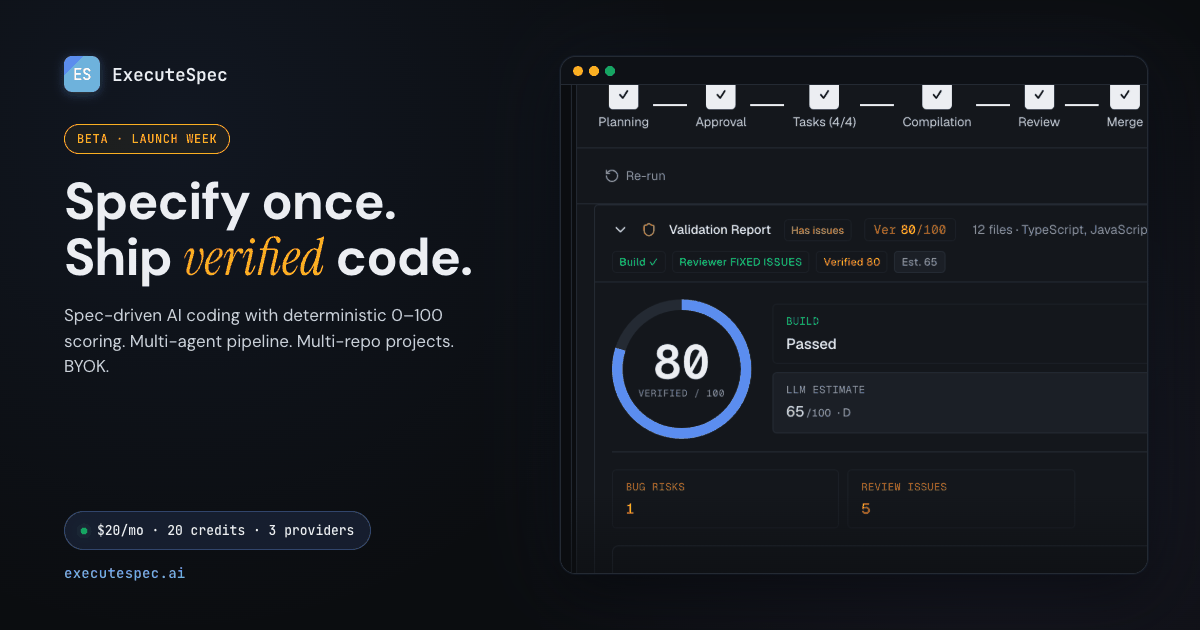
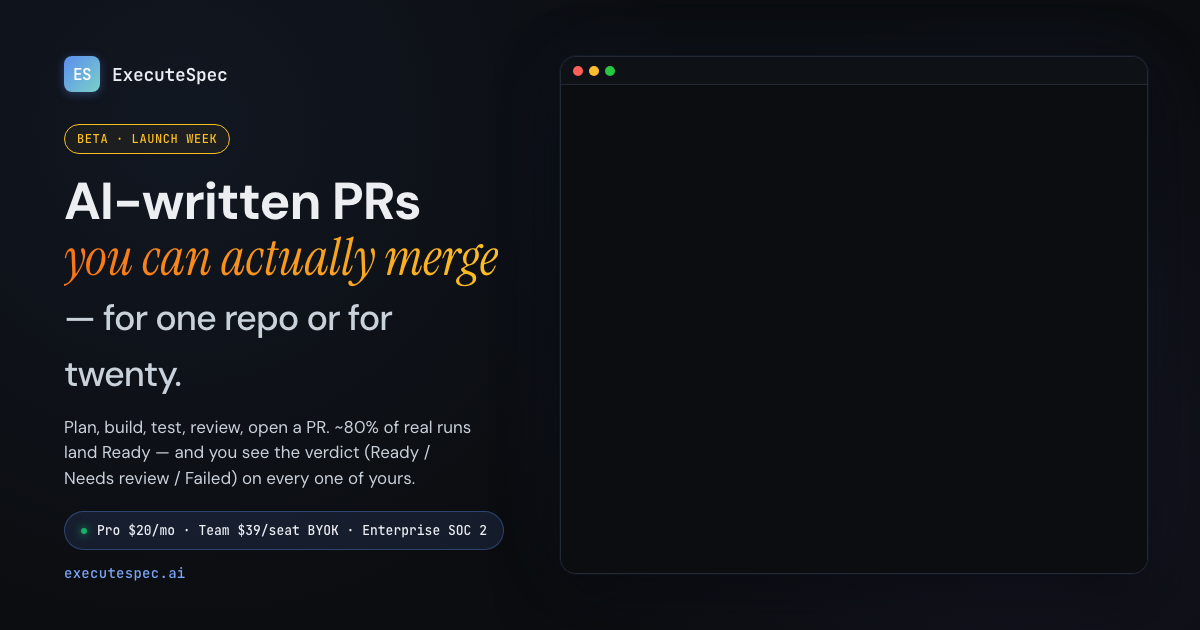
chore(website): G8 + G9 + G12 — OG hero asset + press-kit README (Wave 5 ckpt 3)
Closes Wave 5 (the 3 stretch items). All shipped together because they're
related — same brand-messaging refresh, just different surfaces.

G9 — og-hero-template/template.html
  Headline rewritten from the retired pre-v3 line:
    "Specify once. Ship verified code."
    "Spec-driven AI coding with deterministic 0-100 scoring."
  to the v3 selling-point line:
    "AI-written PRs / you can actually merge / — for one repo or for twenty."
    "Plan, build, test, review, open a PR. ~80% of real runs land Ready —
     and you see the verdict (Ready / Needs review / Failed) on every one
     of yours."
  Plus the bottom pill: "Pro $20/mo · Team $39/seat BYOK · Enterprise SOC 2"
  (was the old "$20/mo · 20 credits · 3 providers" — pre-V141 framing).

G8 — og-hero.png re-rendered
  1200×630 PNG generated from the updated template via Playwright headless
  (the existing render.js path is preserved + worked; I rendered through a
  side-script to avoid installing playwright-core just for the one shot).
  Two output paths written so both the deploy + the press-kit reference
  copy are in sync:
    website/images/og-hero.png             ← deployed; 235 KB
    website/press-kit/og-hero-template/og-hero.png  ← source-tree backup

  This is the file Twitter / LinkedIn / Facebook / Slack / Discord all
  request when an executespec.ai link gets shared. Their caches are aged
  (TTL 7d to 30d); after this commit lands on prod the new card surfaces
[…]

diff --git a/website/press-kit/og-hero-template/template.html b/website/press-kit/og-hero-template/template.html
@@ -200,16 +200,17 @@
         </div>
         <span class="chip" style="margin-top: 32px;">Beta · Launch week</span>
         <h1 class="headline" style="margin-top: 20px;">
-          Specify once.<br>
-          Ship <span class="it">verified</span> code.
+          AI-written PRs<br>
+          <span class="it">you can actually merge</span><br>
+          <span style="font-size: 36px; font-weight: 500; color: var(--text-secondary);">— for one repo or for twenty.</span>
         </h1>
         <p class="sub">
-          Spec-driven AI coding with deterministic 0–100 scoring.
-          Multi-agent pipeline. Multi-repo projects. BYOK.
+          Plan, build, test, review, open a PR. ~80% of real runs land Ready —
+          and you see the verdict (Ready / Needs review / Failed) on every one of yours.
         </p>
       </div>
       <div class="foot">
-        <div class="pill"><span class="dot"></span>$20/mo · 20 credits · 3 providers</div>
+        <div class="pill"><span class="dot"></span>Pro $20/mo · Team $39/seat BYOK · Enterprise SOC 2</div>
         <div class="url">executespec.ai</div>
       </div>
     </div>

diff --git a/website/press-kit/README.md b/website/press-kit/README.md
@@ -1,62 +1,96 @@
 # ExecuteSpec Press Kit
 
-_For Product Hunt launch, advertising, and press contacts._
+_For Product Hunt launch, advertising, and press contacts. Last refreshed 2026-04-28 (Wave 5)._
 
 ## Contact
 
 - **Founder**: Navneet Prabhakar
 - **Email (press)**: `admin@executespec.ai`
+- **Email (sales / enterprise)**: `enterprise@executespec.ai`
 - **Email (support)**: `admin@executespec.ai`
 - **Website**: `https://executespec.ai`
+- **App**: `https://dev.executespec.ai`
+- **Public 30-day demo (no signup)**: `https://dev.executespec.ai/v3/exec-demo`
+- **Trust posture**: `https://dev.executespec.ai/v3/trust`
 - **Product Hunt**: (link after launch)
 
 ## One-liner
 
-> ExecuteSpec turns structured specifications into verified, tested, shippable code via a multi-agent pipeline with deterministic 0-100 scoring.
+> ExecuteSpec ships AI-written pull requests you can actually merge — for one repo or for twenty.
+
+## Two-liner
+
+> ExecuteSpec ships AI-written pull requests you can actually merge — for one repo or for twenty.
+> Plan, build, test, review, open a PR. ~80% of real runs land Ready, and you see the verdict (Ready / Needs review / Failed) on every one of yours.
 
 ## Longer description (suitable for press)
 
-> ExecuteSpec is a spec-driven AI coding platform built for engineering leaders, PMs, and solo developers who want trustworthy code shipping — not just code suggestions. Every run flows through a planner → sequential worker → reviewer pipeline and ends with a 0-100 verified score derived from deterministic signals (build pass, test pass rate, reviewer verdict) rather than LLM self-rating. The platform supports multi-repo project workspaces with architecture docs, tech-debt panels, and RAG-powered project chat. Pricing starts at free (5 runs/month) with a $20/mo Pro tier (20 credits, where $1 = 1 credit) and a $29/mo Max tier with bring-your-own Anthropic/OpenAI/Gemini keys for unlimited use. Built for US + global engineering teams.
+> ExecuteSpec is an AI coding platform that ships pull requests your team will actually merge. Every run flows through a single pipeline — **planner → plan-approval gate → executor → reviewer → final build + test gate** — and ends with a deterministic verdict (Ready / Needs review / Failed) attached to the PR. The verdict is derived from real signals (build status, test pass rate, reviewer outcome, spec adherence), not LLM self-rating. ~80% of real runs land Ready against real codebases.
+>
+> Built for the merge step rather than the typing step: where Cursor, GitHub Copilot, and Continue suggest code at the cursor and leave validation to you, ExecuteSpec runs the validation itself and only opens a PR when it's ready (or labels it Needs review / Failed when it isn't).
+>
+> Multi-repo project workspaces with architecture docs, tech-debt panels, project memory, and RAG-powered project chat. Four tiers: **Free** (5 lifetime runs + 5 per friend you invite, cap 25), **Pro** ($20/mo, unlimited managed runs solo), **Team** ($39/seat/month, minimum 2 seats, BYOK + per-seat collab + audit log + SSO), **Enterprise** (SOC 2 + signed DPA + dedicated infra + custom MSA). Anonymous trial — no signup for the first preview. Built for US + global engineering teams.
 
 ## Founding story (1 paragraph)
 
-> I spent 18 months using every "AI coding" tool I could get my hands on — Cursor, Windsurf, Claude Code, Bolt.new, Lovable, v0, Replit Agent. They all have the same shape: generate a diff, hand it to me, shrug. My team ended up doing the same review work we'd always done, just on slightly weirder code. ExecuteSpec started as a bet that the delivery layer — plan → execute → verify — is where the real value lives, not the code-writing layer. The verified score is what makes this concrete: a number that maps to real CI signals, not a vibe-check from the same model that wrote the code.
+> I spent 18 months using every "AI coding" tool I could get my hands on — Cursor, Windsurf, Claude Code, Bolt.new, Lovable, v0, Replit Agent. They all have the same shape: generate a diff, hand it to me, shrug. My team ended up doing the same review work we'd always done, just on slightly weirder code. ExecuteSpec started as a bet that the **merge step** — plan → execute → validate → label — is where the real value lives, not the code-writing step. The Ready / Needs review / Failed verdict on every PR is what makes this concrete: a label that maps to real CI signals, not a vibe-check from the same model that wrote the code. Everyone else fights over typing speed; we fight over what your reviewer will approve.
 
-## Assets (placeholders — replace before launch)
+## Positioning vs each major competitor
+
+> | vs | We add what they don't |
+> |---|---|
+> | Cursor | Multi-file dispatch, multi-repo, validated PR with verdict (Cursor wins on completion latency) |
+> | Devin | Plan-approval gate (you see + approve before any code is written), pricing transparency |
+> | v0 / Bolt / Lovable | Real PR to your existing repo, backend + multi-file (they ship into their sandbox) |
+> | GitHub Copilot Workspaces | Multi-repo, multi-provider, explicit plan-approval gate |
+> | Sourcegraph Cody | Agent autonomy (Cody is mostly Q&A + complete) |
+> | Claude Code (CLI) | Web-shareable runs, audit log export, team admin |
+
+## Assets
 
 ```
 website/press-kit/
-├── README.md                    ← you are here
-├── TODO-logo-light.png         (256×256 and 1024×1024)
-├── TODO-logo-dark.png          (256×256 and 1024×1024)
-├── TODO-logo-mark.svg          (square, transparent bg)
-├── TODO-favicon.ico            (multi-size)
-├── TODO-og-hero.png            (1200×630, referenced from index.html:30)
-├── TODO-screenshot-dashboard.png
-├── TODO-screenshot-rundetail.png
-├── TODO-screenshot-project.png
-├── TODO-screenshot-architecture.png
-├── TODO-screenshot-validation.png
-├── TODO-screenshot-mobile.png
-└── TODO-demo-video.txt         (link to Loom/YouTube once recorded)
+├── README.md                                ← you are here
+├── og-hero-template/                        ← source for the 1200×630 OG card
+│   ├── template.html
+│   ├── render.js
+│   ├── og-hero.png                         (1200×630 — re-rendered 2026-04-28 with v3 selling-point)
+│   └── README.md
+├── ss-01-dashboard.png                      (NB: pre-v3 capture; re-shoot scheduled)
+├── ss-02-run-detail.png                     (NB: pre-v3 capture; re-shoot scheduled)
+├── ss-03-project-overview.png               (NB: pre-v3 capture; re-shoot scheduled)
+├── ss-04-architecture-viewer.png            (NB: pre-v3 capture; re-shoot scheduled)
+├── ss-05-validation-report.png              (NB: pre-v3 capture; re-shoot scheduled)
+├── ss-05b-validation-polished.png           (NB: pre-v3 capture; re-shoot scheduled)
+├── ss-extra-score-trend.png                 (NB: pre-v3 capture; re-shoot scheduled)
+└── CAPTURE_GUIDE.md                         (SOP for shooting the next round in v3)
 ```
 
-## Brand guidelines
+The 7 screenshots are from the pre-v3 visual identity. They show v2 dashboard, v2 run-detail, v2 architecture viewer, and v2 validation report — useful for context but **not** what the v3 product looks like today. A re-shoot session is queued under a separate work item; in the meantime use the live product at `https://dev.executespec.ai/v3/landing` for any Product Hunt / blog hero imagery.
 
-- **Primary accent**: blue `#0066cc`
-- **Success accent**: green `#00aa44`
-- **Warn accent**: amber `#dd9900`
-- **Background (dark)**: `#000000`, `#0a0a0a`, `#111111`
-- **Typography**: `Geist` (body + UI), `Geist Mono` (code), `Instrument Serif` italic (brand accents)
-- **Tone**: direct, technical, honest about tradeoffs. No hype. No rocket emojis. We cite real cost data, including when it's unflattering to us (see `website/pricing-analysis.md`).
+## Brand guidelines (current — to be unified in the color-codes pass)
+
+- **Primary accent**: brand blue `#5B8DEF` (v3) / `#0066cc` (legacy website — to converge)
+- **Brand gradient**: orange→amber `linear-gradient(to right, #F97316, #FBBF24)` for the italic headline accent (matches `<span class="it">`)
+- **Success accent**: teal-green `#7AD1C8` (v3) / `#17B169` (website)
+- **Warn accent**: amber `#FBBF24`
+- **Error accent**: red `#EF4444`
+- **Background (dark, default)**: `#0B0D10` (v3) / `#000000`–`#0a0a0a` (website)
+- **Surface**: `#14171C` / `#1B1F26` / `#242A33` (v3 surface ladder)
+- **Text**: primary `#ECEEF2`, secondary `#C9D1DB`, muted `#8A94A6`
+- **Typography**: `Geist` (body + UI), `Geist Mono` / `JetBrains Mono` (code), `Instrument Serif` italic for brand-accent words
+- **Tone**: direct, technical, honest about tradeoffs. No hype, no rocket emojis. We cite real cost data, including when it's unflattering to us (see `website/pricing-analysis.md`).
+
+> Note: the website orange/amber palette and the v3-app blue/teal palette currently live as two distinct visual systems. A unified color-codes spec is being prepared — once locked, all six "Primary / Brand gradient / Success / Warn / Error / Background" tokens above converge to one source-of-truth.
 
 ## Boilerplate (for use in articles, partner listings, etc.)
 
-> ExecuteSpec is a spec-driven AI coding platform that turns structured specifications into verified, tested code via a multi-agent pipeline (planner → worker → reviewer) with a deterministic 0-100 verified score. Supports multi-repo projects, Figma-to-code, React Native + Expo, BYOK for all three major LLM providers, and integrations with JIRA, Confluence, Slack, and GitHub. Free tier available at executespec.ai.
+> ExecuteSpec is an AI coding platform that ships pull requests your team will actually merge — for one repo or for twenty. Plan, build, test, review, open a PR — ~80% of real runs land Ready, with a deterministic Ready / Needs review / Failed verdict on every one. Multi-repo project workspaces, plan-approval gate, BYOK for Anthropic / OpenAI / Google. Pricing: Free (5 lifetime runs + 5 per friend), Pro $20/mo (unlimited managed-key runs solo), Team $39/seat/mo BYOK (min 2 seats), Enterprise (SOC 2 + DPA + dedicated infra). Try free at https://executespec.ai or watch a real team's last 30 days at https://dev.executespec.ai/v3/exec-demo.
 
 ## Press availability
 
 - Written quotes — 24h turnaround
 - Async video quotes — 48h turnaround
-- Live demo calls (30 min) — book at admin@executespec.ai
-- Product walkthroughs (60 min, for editorial) — book at admin@executespec.ai
+- Live demo calls (30 min) — book at `admin@executespec.ai`
+- Product walkthroughs (60 min, for editorial) — book at `admin@executespec.ai`
+- Custom benchmark runs (e.g. "ship a feature on a real codebase, verdict + diff captured for the article") — book at `admin@executespec.ai`
